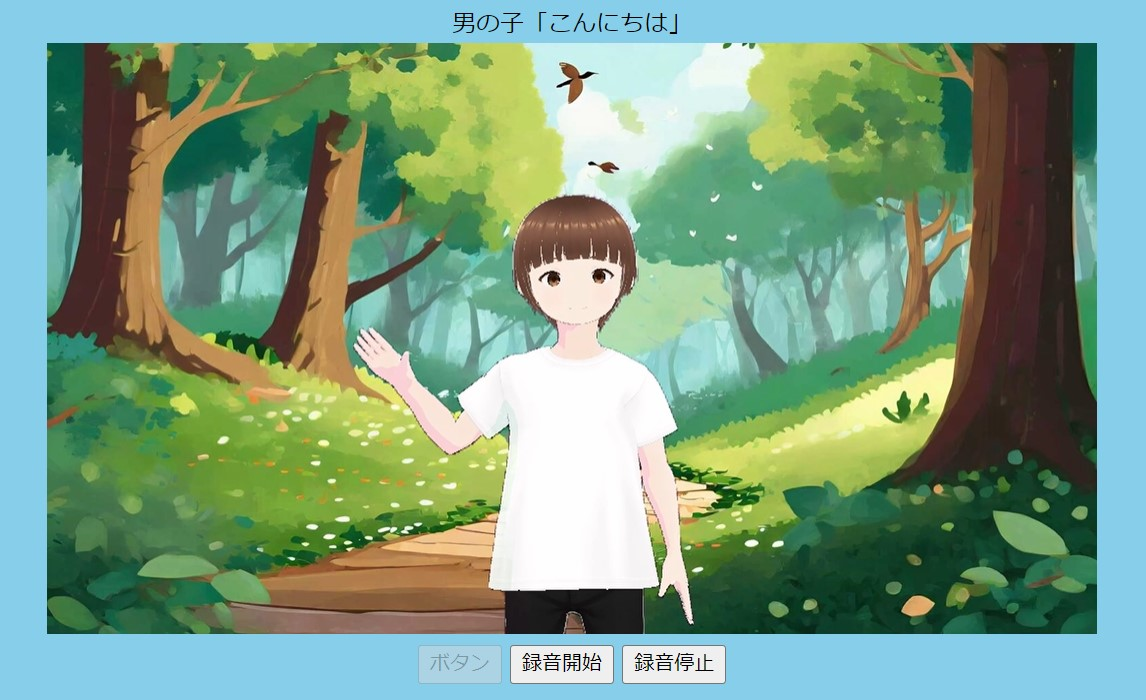
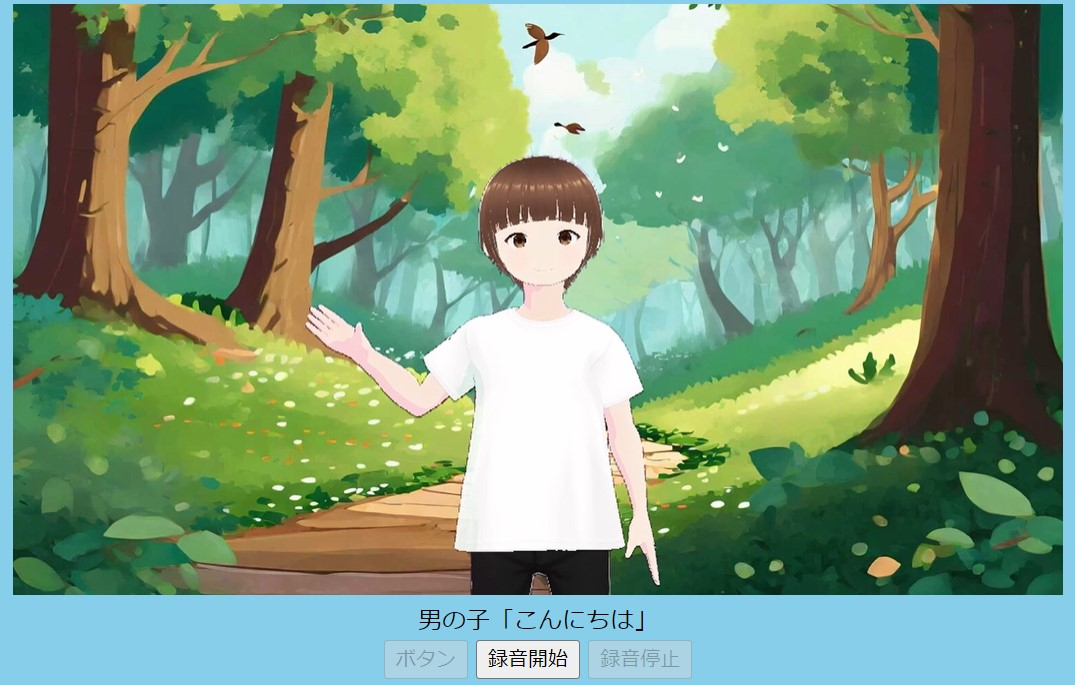
jsボタン押せるようになるタイミング改善recStart recStop btn

diff --git a/my_app/static/js/men.js b/my_app/static/js/men.js
@@ -57,9 +57,10 @@ function sCut(sceanCnt) {
       cutCnt++;//カット（セリフ）をインクリメント
       if ((cutCnt === 2) && (sceanCnt != 1)) {//trueの時録音する。※sceanCnt条件は、あらすじ表示時に録音してしまうのを防ぐため
         recStart.removeAttribute('disabled');//押せる
-        recStop.removeAttribute('disabled');//押せる
         btn.setAttribute('disabled', 'disabled');//押せなくする
-      } else {
+      }
+      if ((cutCnt === 3) && (sceanCnt != 1)) {
+        recStop.removeAttribute('disabled');//押せる
         recStart.setAttribute('disabled', 'disabled');//押せなくする
       }
       flag = 0;
@@ -67,11 +68,14 @@ function sCut(sceanCnt) {
 };
 
 //sCut関数実行のあと、flagチェックする関数
+//真引数 num は 仮引数 sceanCntと対応
+//カット（その役柄のセリフ）が終わったら
+//sceanをインクリメント（次の役柄のシナリオへ）
 function sCutFlag(){
-  sCut(num);//真引数 num は 仮引数 sceanCntと対応
-  if (flag === 1){//カット（その役柄のセリフ）が終わったら
-    console.log('セリフ終わり！',videoNum);
-    num++;//sceanをインクリメント（次の役柄のシナリオへ）
+  sCut(num);
+  if (flag === 1){
+    num++;
+    // console.log('セリフ終わり！',videoNum);
   } else {
     console.log('セリフ続くよ');
   }

diff --git a/my_app/static/js/all.js b/my_app/static/js/all.js
@@ -66,9 +66,10 @@ function sCut(sceanCnt) {
       cutCnt++;//カット（セリフ）をインクリメント
       if ((cutCnt === 2) && (sceanCnt != 1)) {//trueの時録音する。※sceanCnt条件は、あらすじ表示時に録音してしまうのを防ぐため
         recStart.removeAttribute('disabled');//押せる
-        recStop.removeAttribute('disabled');//押せる
         btn.setAttribute('disabled', 'disabled');//押せなくする
-      } else {
+      }
+      if ((cutCnt === 3) && (sceanCnt != 1)) {
+        recStop.removeAttribute('disabled');//押せる
         recStart.setAttribute('disabled', 'disabled');//押せなくする
       }
       flag = 0;

diff --git a/my_app/static/js/women.js b/my_app/static/js/women.js
@@ -56,9 +56,10 @@ function sCut(sceanCnt) {
       cutCnt++;//カット（セリフ）をインクリメント
       if ((cutCnt === 2) && (sceanCnt != 1)) {//trueの時録音する。※sceanCnt条件は、あらすじ表示時に録音してしまうのを防ぐため
         recStart.removeAttribute('disabled');//押せる
-        recStop.removeAttribute('disabled');//押せる
         btn.setAttribute('disabled', 'disabled');//押せなくする
-      } else {
+      }
+      if ((cutCnt === 3) && (sceanCnt != 1)) {
+        recStop.removeAttribute('disabled');//押せる
         recStart.setAttribute('disabled', 'disabled');//押せなくする
       }
       flag = 0;

diff --git a/my_app/templates/base.html b/my_app/templates/base.html
@@ -6,7 +6,8 @@
     <link rel="stylesheet" href="{{url_for('static', filename='css/style.css')}}">
 </head>
 <body>
-    <div id="display"></div>
+    <div id="display" class="display"></div>
+    <div class="videoZone"></div>
 
     <div class="btnArea">
         <button id="btn">ボタン</button>
@@ -18,7 +19,6 @@
         </form>
     </div>
     
-    <div class="videoZone"></div>
     {% block content %}{% endblock %}
 </body>
 </html>

diff --git a/my_app/templates/result_all.html b/my_app/templates/result_all.html
@@ -11,7 +11,7 @@
   <table>
     {% for recog in recogs %}
       <tr class="role">
-          <td>{{recog.result}}</td>
+          <td>{{recog.result}}</td><td>{#{recog.id}#}</td>
       </tr>
     {% endfor %}
   </table> 

diff --git a/my_app/templates/result_mw.html b/my_app/templates/result_mw.html
@@ -11,7 +11,7 @@
   <table>
     {% for recog in recogs %}
       <tr class="role">
-        <td>{{recog.result}}</td>
+        <td>{{recog.result}}</td><td>{#{recog.id}#}</td>
       </tr>
     {% endfor %}
   </table>

diff --git a/my_app/static/css/style.css b/my_app/static/css/style.css
@@ -7,15 +7,17 @@ body {
 }
 
 .display {
-  order: 0;
+  order: 2;
 }
 
 .btnArea {
-  order: 2;
+  order: 3;
 }
 
 .videoZone {
   background-color: skyblue;
+  width: 700px;
+  height: 400px;
   order: 1;
 }
 
